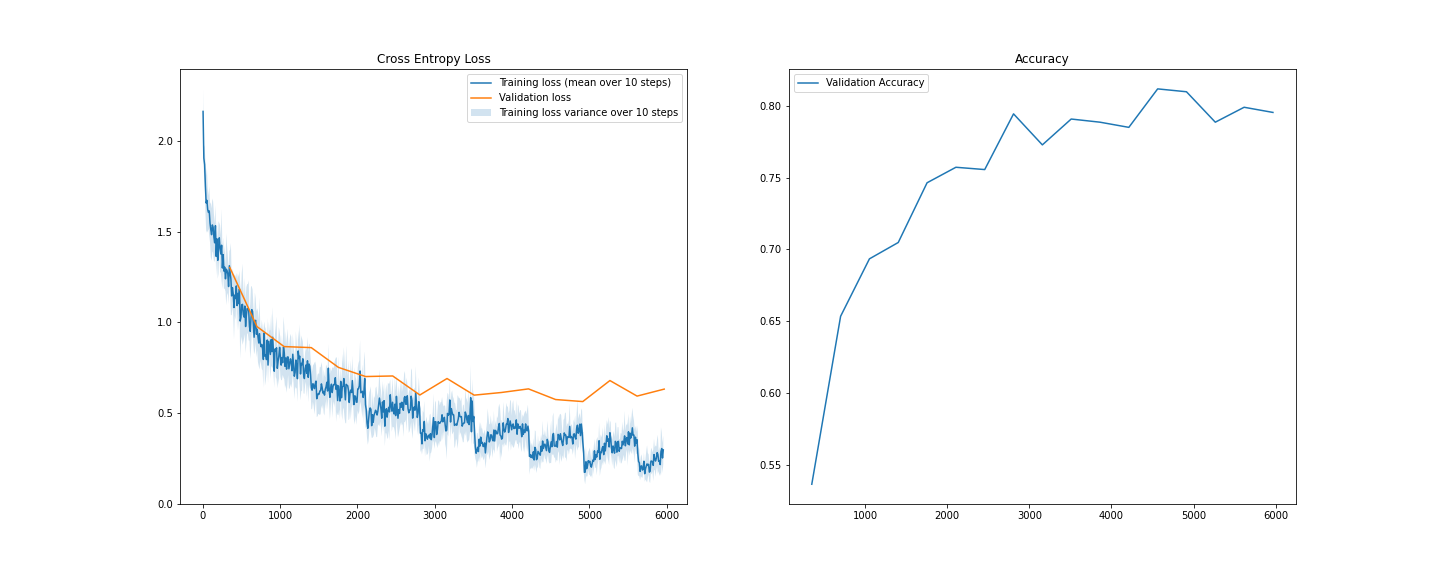
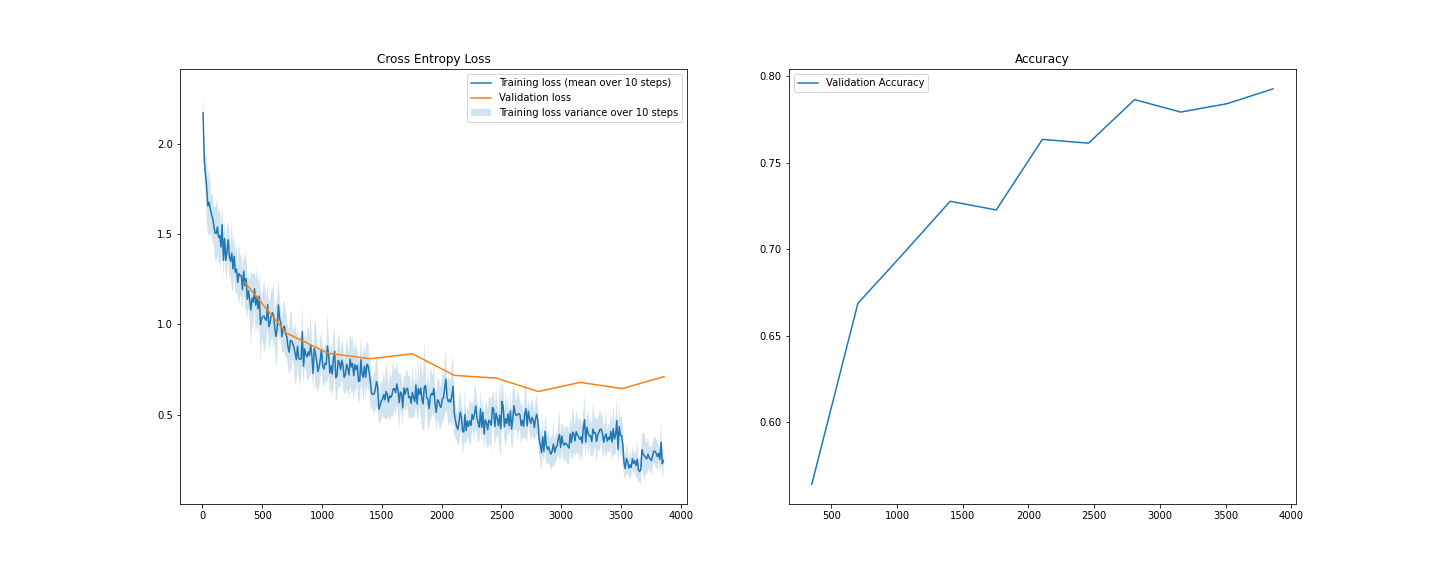
3 modeller nå

diff --git a/assignment3/trainer.py b/assignment3/trainer.py
@@ -76,7 +76,8 @@ class Trainer:
         self.optimizer = torch.optim.SGD(self.model.parameters(),
                                         self.learning_rate
                                         ,momentum = 0.1
-                                        ,weight_decay=0.005)
+                                        #,weight_decay=0.005
+                                        )
         # The adam optimizer task 41
         # self.optimizer = torch.optim.Adam(self.model.parameters(),
         #                                   self.learning_rate
